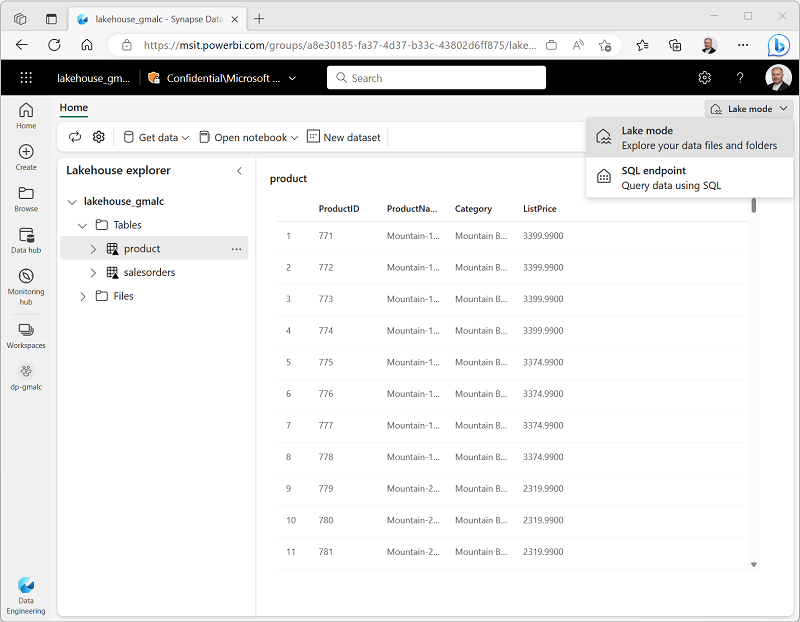
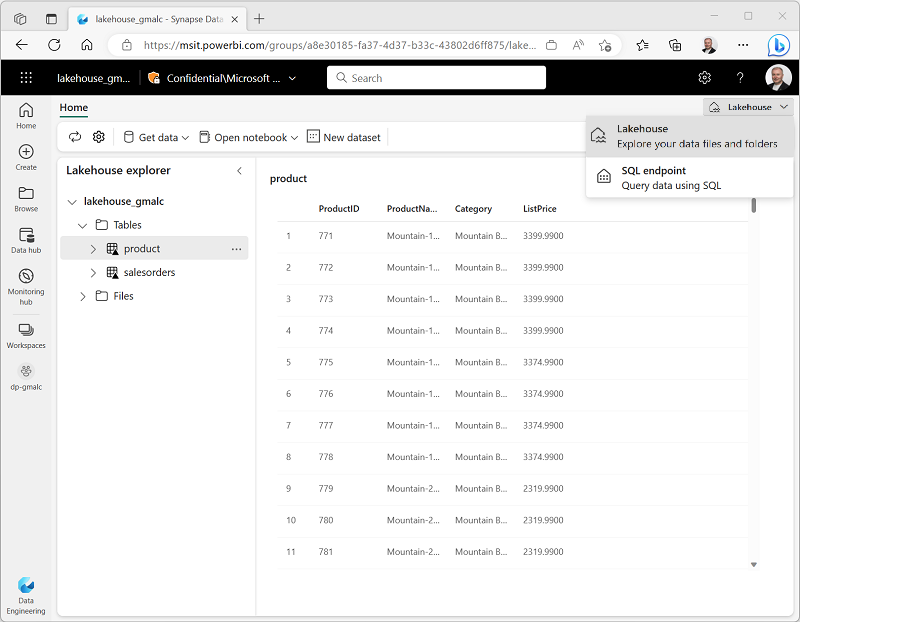
minor screenshot updates (lakehouse vs lake mode)

diff --git a/Instructions/Labs/01-lakehouse.md b/Instructions/Labs/01-lakehouse.md
@@ -80,7 +80,7 @@ The sales data you uploaded is in a file, which data analysts and engineers can 
 2. In the **...** menu for the **orders.csv** file select **Load to Delta table**.
 3. In **Load to table** dialog box, set the table name to **salesorders** and confirm the load operation. Then wait for the table to be created and loaded.
 
-    > **Tip**: If the **salesorder** table does not automatically appear, in the **...** menu for the **Tables** folder, select **Refresh**.
+    > **Tip**: If the **salesorders** table does not automatically appear, in the **...** menu for the **Tables** folder, select **Refresh**.
 
 3. In the **Lakehouse explorer** pane, select the **salesorders** table that has been created for the table data.
 
@@ -101,7 +101,7 @@ When you need to regularly copy data from an external source into the lakehouse,
     The pipeline editor opens in a new browser tab (if you are prompted to allow pop-ups, do so).
 
 2. If the **Copy Data** wizard doesn't open automatically, select **Copy Data** in the pipeline editor page.
-3. In the **Copy Data** wizard, on the **Choose a data source** page, in the **data sources** section, review the list of available sources. Then on the **File** tab, select **HTTP**.
+3. In the **Copy Data** wizard, on the **Choose a data source** page, in the **data sources** section, review the list of available sources. Then on the **Generic protocol** tab, select **HTTP**.
 
     ![Screenshot of the Choose data source page.](./Images/choose-data-source.png)
 
@@ -131,6 +131,7 @@ When you need to regularly copy data from an external source into the lakehouse,
 9. Set the following data destination options (noting that you can copy the data to a file, or to a table - which creates the necessary files in the **Tables** storage area as well as the relational table metadata), and then select **Next**:
     - **Root folder**: Tables
     - **Table name**: `product`
+    - **Table action**: Append
 10. On the **Copy summary** page, review the details of your copy operation and then select **OK**
 
     A new pipeline containing a **Copy Data** activity is created, as shown here:
@@ -143,7 +144,7 @@ When you need to regularly copy data from an external source into the lakehouse,
 
     ![Screenshot of a completed pipeline.](./Images/pipeline-completed.png)
 
-12. Close the browser tab containing the pipeline designer and return to the tab containing your lakehouse.
+12. Go back to your workspace by selecting your workspace from the left navigation menu. Find and select your lakehouse.
 13. In the **Lakehouse explorer** pane, in the **...** menu for **Tables**, select **Refresh** to see the **product** table created by the pipeline.
 14. Select the **product** table to see a preview of its data.
 
@@ -153,7 +154,7 @@ When you need to regularly copy data from an external source into the lakehouse,
 
 When you create a lakehouse and define tables in it, a SQL endpoint is automatically created through which the tables can be queried using SQL `SELECT` statements.
 
-1. At the top-right of the Lakehouse page, switch from **Lake mode** to **SQL endpoint** as shown here:
+1. At the top-right of the Lakehouse page, switch from **Lakehouse** to **SQL endpoint** as shown here:
 
     ![Screenshot of the SQL endpoint option.](./Images/sql-endpoint.png)
 
